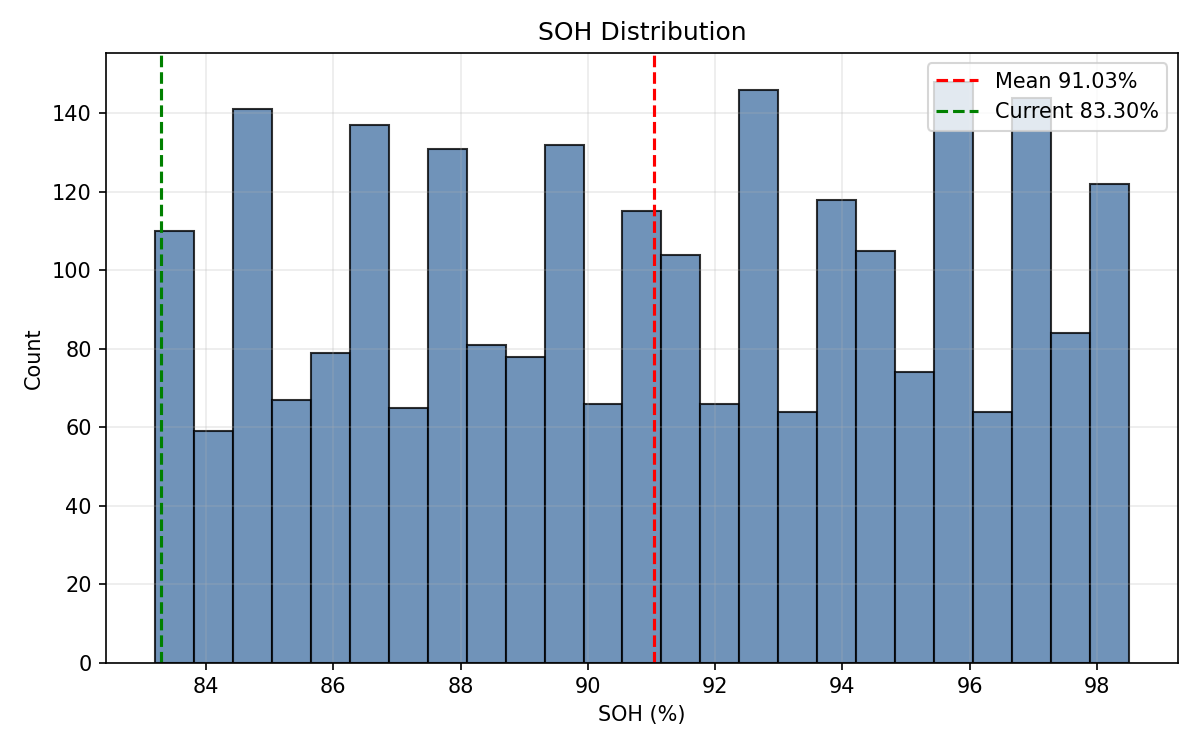
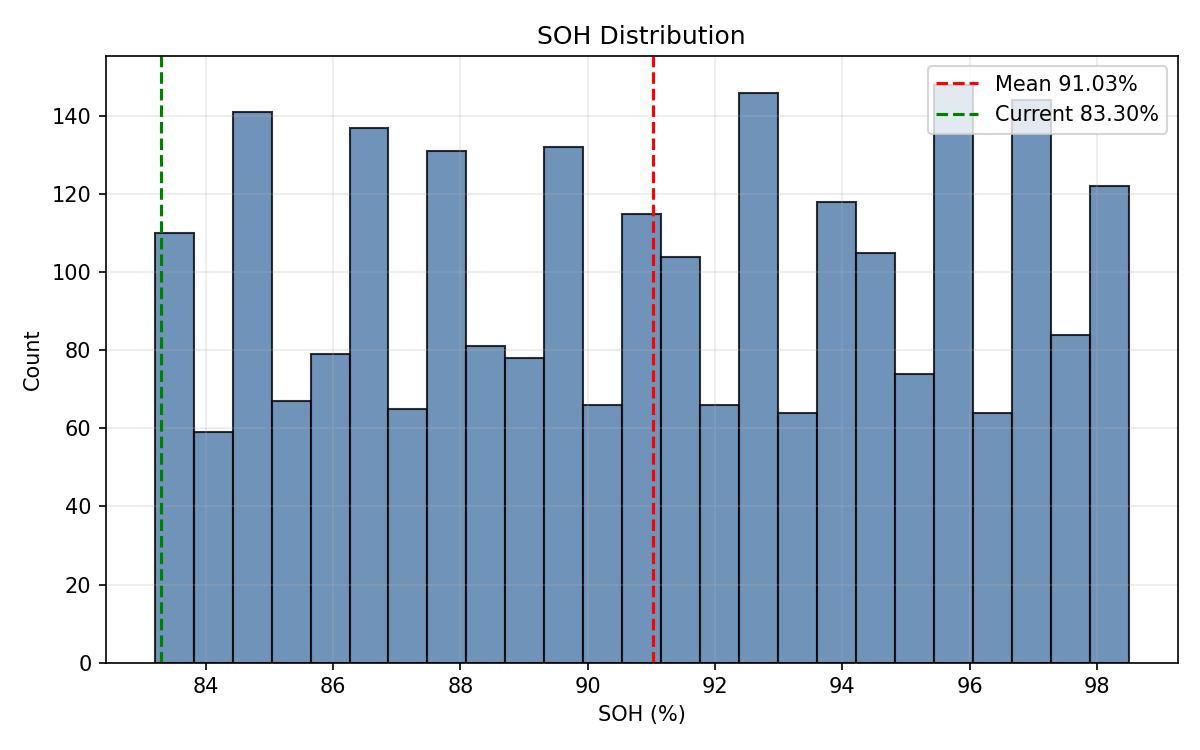
Fixed GUI and console prediction algorithms

diff --git a/battery_bdf_analyzer_console.py b/battery_bdf_analyzer_console.py
@@ -83,6 +83,9 @@ def load_bdf(file_path: Path) -> pd.DataFrame:
     df["capacity_percent"] = pd.to_numeric(df["capacity_percent"], errors="coerce")
     df["temperature_celsius"] = pd.to_numeric(df["temperature_celsius"], errors="coerce")
 
+    # Treat non-finite values as missing before filtering rows.
+    df = df.replace([np.inf, -np.inf], np.nan)
+
     df = df.dropna(subset=["test_time_second", "voltage_volt", "current_ampere"]).copy()
     if df.empty:
         raise ValueError("No valid rows after numeric normalization")
@@ -118,11 +121,18 @@ def compute_soh(df: pd.DataFrame) -> np.ndarray:
 def fit_linear(time_sec: np.ndarray, soh: np.ndarray) -> tuple[LinearRegression, dict]:
     """Fit a linear SOH-vs-time model and return model plus quality metrics."""
     model = LinearRegression()
-    x = time_sec.reshape(-1, 1)
-    model.fit(x, soh)
-    pred = model.predict(x)
+    x = pd.to_numeric(pd.Series(time_sec), errors="coerce").replace([np.inf, -np.inf], np.nan)
+    y = pd.to_numeric(pd.Series(soh), errors="coerce").replace([np.inf, -np.inf], np.nan)
+    valid = x.notna() & y.notna()
+    if int(valid.sum()) < 2:
+        raise ValueError("Insufficient finite samples for linear fit")
+
+    x_fit = x[valid].to_numpy().reshape(-1, 1)
+    y_fit = y[valid].to_numpy()
+    model.fit(x_fit, y_fit)
+    pred = model.predict(x_fit)
     metrics = {
-        "r2": float(r2_score(soh, pred)),
+        "r2": float(r2_score(y_fit, pred)),
         "slope": float(model.coef_[0]),
         "intercept": float(model.intercept_),
     }
@@ -146,23 +156,100 @@ def estimate_rul_seconds(linear_model: LinearRegression, current_time: float, cu
 def fit_svr(df: pd.DataFrame, soh: np.ndarray) -> tuple[SVR, StandardScaler, dict, np.ndarray]:
     """Train an SVR model for SOH and return fitted artifacts and metrics."""
     features = df[["test_time_second", "voltage_volt", "current_ampere"]].copy()
+    features["test_time_second"] = pd.to_numeric(features["test_time_second"], errors="coerce")
+    features["voltage_volt"] = pd.to_numeric(features["voltage_volt"], errors="coerce")
+    features["current_ampere"] = pd.to_numeric(features["current_ampere"], errors="coerce")
+
     if "temperature_celsius" in df.columns:
-        features["temperature_celsius"] = df["temperature_celsius"].fillna(25.0)
+        features["temperature_celsius"] = pd.to_numeric(df["temperature_celsius"], errors="coerce")
     else:
         features["temperature_celsius"] = 25.0
+
+    features = features.replace([np.inf, -np.inf], np.nan)
+    features["test_time_second"] = features["test_time_second"].interpolate(limit_direction="both").fillna(0.0)
+    features["voltage_volt"] = features["voltage_volt"].ffill().bfill().fillna(3.7)
+    features["current_ampere"] = features["current_ampere"].ffill().bfill().fillna(0.0)
+    features["temperature_celsius"] = features["temperature_celsius"].ffill().bfill().fillna(25.0)
+
+    y = pd.to_numeric(pd.Series(soh), errors="coerce").replace([np.inf, -np.inf], np.nan)
+    y = y.ffill().bfill().fillna(100.0).to_numpy()
 
     scaler = StandardScaler()
     x_scaled = scaler.fit_transform(features)
 
     model = SVR(kernel="rbf", C=10.0, epsilon=0.01)
-    model.fit(x_scaled, soh)
+    model.fit(x_scaled, y)
     pred = model.predict(x_scaled)
 
     metrics = {
-        "r2": float(r2_score(soh, pred)),
-        "mae": float(mean_absolute_error(soh, pred)),
+        "r2": float(r2_score(y, pred)),
+        "mae": float(mean_absolute_error(y, pred)),
     }
     return model, scaler, metrics, pred
+
+
+def predict_future_svr(
+    df: pd.DataFrame,
+    model: SVR,
+    scaler: StandardScaler,
+    future_days: float,
+) -> tuple[np.ndarray, np.ndarray]:
+    """Project future SOH using last known operating conditions and time progression."""
+    horizon_seconds = max(0.0, future_days * 86400.0)
+
+    features = df[["test_time_second", "voltage_volt", "current_ampere"]].copy()
+    features["test_time_second"] = pd.to_numeric(features["test_time_second"], errors="coerce")
+    features["voltage_volt"] = pd.to_numeric(features["voltage_volt"], errors="coerce")
+    features["current_ampere"] = pd.to_numeric(features["current_ampere"], errors="coerce")
+
+    if "temperature_celsius" in df.columns:
+        features["temperature_celsius"] = pd.to_numeric(df["temperature_celsius"], errors="coerce")
+    else:
+        features["temperature_celsius"] = 25.0
+
+    features = features.replace([np.inf, -np.inf], np.nan)
+    features["test_time_second"] = features["test_time_second"].interpolate(limit_direction="both").fillna(0.0)
+    features["voltage_volt"] = features["voltage_volt"].ffill().bfill().fillna(3.7)
+    features["current_ampere"] = features["current_ampere"].ffill().bfill().fillna(0.0)
+    features["temperature_celsius"] = features["temperature_celsius"].ffill().bfill().fillna(25.0)
+
+    last = features.iloc[-1]
+    last_time = float(last["test_time_second"])
+    future_times = np.linspace(last_time, last_time + horizon_seconds, num=100)
+
+    x_future = pd.DataFrame(
+        {
+            "test_time_second": future_times,
+            "voltage_volt": float(last["voltage_volt"]),
+            "current_ampere": float(last["current_ampere"]),
+            "temperature_celsius": float(last["temperature_celsius"]),
+        }
+    )
+
+    x_future_scaled = scaler.transform(x_future)
+    soh_future = model.predict(x_future_scaled)
+    return future_times, soh_future
+
+
+def estimate_svr_rul_seconds(
+    df: pd.DataFrame,
+    model: SVR,
+    scaler: StandardScaler,
+    eol_soh: float,
+    future_days: float,
+) -> float | None:
+    """Estimate SVR-based RUL by finding first forecast time crossing EOL SOH."""
+    future_times, soh_future = predict_future_svr(df, model, scaler, future_days)
+    if len(future_times) == 0:
+        return None
+
+    current_time = float(df["test_time_second"].iloc[-1])
+    below = np.where(soh_future <= eol_soh)[0]
+    if len(below) == 0:
+        return None
+
+    t_eol = float(future_times[below[0]])
+    return max(0.0, t_eol - current_time)
 
 
 def save_plots(df: pd.DataFrame, soh: np.ndarray, linear_model: LinearRegression, svr_pred: np.ndarray, output_dir: Path, eol_soh: float) -> list[Path]:
@@ -232,7 +319,7 @@ def format_duration(seconds: float) -> str:
     return f"{days:.1f} days"
 
 
-def run_analysis(input_file: Path, output_dir: Path, eol_soh: float) -> None:
+def run_analysis(input_file: Path, output_dir: Path, eol_soh: float, svr_days: float) -> None:
     """Run complete BDF analysis pipeline and print a console report."""
     df = load_bdf(input_file)
     soh = compute_soh(df)
@@ -245,7 +332,8 @@ def run_analysis(input_file: Path, output_dir: Path, eol_soh: float) -> None:
         eol_soh=eol_soh,
     )
 
-    _, _, svr_metrics, svr_pred = fit_svr(df, soh)
+    svr_model, svr_scaler, svr_metrics, svr_pred = fit_svr(df, soh)
+    svr_rul_seconds = estimate_svr_rul_seconds(df, svr_model, svr_scaler, eol_soh=eol_soh, future_days=svr_days)
     saved_plots = save_plots(df, soh, linear_model, svr_pred, output_dir, eol_soh)
 
     print("=" * 60)
@@ -270,6 +358,10 @@ def run_analysis(input_file: Path, output_dir: Path, eol_soh: float) -> None:
     print("SVR model")
     print(f"- R²: {svr_metrics['r2']:.4f}")
     print(f"- MAE: {svr_metrics['mae']:.4f}%")
+    if svr_rul_seconds is None:
+        print(f"- Estimated RUL to SOH {eol_soh:.0f}%: > {svr_days:.1f} days (within forecast horizon)")
+    else:
+        print(f"- Estimated RUL to SOH {eol_soh:.0f}%: {format_duration(svr_rul_seconds)}")
     print()
     print("Saved plots")
     for path in saved_plots:
@@ -283,6 +375,7 @@ def parse_args() -> argparse.Namespace:
     parser.add_argument("input_file", type=Path, help="Path to .csv or .bdf.csv file")
     parser.add_argument("--outdir", type=Path, default=Path("plots_bdf"), help="Directory to save PNG charts")
     parser.add_argument("--eol", type=float, default=70.0, help="End-of-life SOH threshold (default: 70)")
+    parser.add_argument("--svr-days", type=float, default=30.0, help="Future horizon in days for SVR EOL estimate (default: 30)")
     return parser.parse_args()
 
 
@@ -291,10 +384,13 @@ def main() -> int:
     signal.signal(signal.SIGINT, signal.default_int_handler)
     args = parse_args()
     try:
-        run_analysis(args.input_file, args.outdir, args.eol)
+        run_analysis(args.input_file, args.outdir, args.eol, args.svr_days)
     except KeyboardInterrupt:
         print("\nInterrupted by user (Ctrl+C).")
         return 130
+    except ValueError as exc:
+        print(f"ERROR: {exc}", file=sys.stderr)
+        return 2
     except BrokenPipeError:
         return 0
     return 0

diff --git a/battery_bdf_analyzer.py b/battery_bdf_analyzer.py
@@ -217,10 +217,14 @@ class BatteryBDFAnalyzer:
         if self.svr_model is None or self.data.empty:
             return None, None
 
-        last_time = float(self.data["test_time_second"].iloc[-1])
+        features = self._get_svr_features()
+        if features.empty:
+            return None, None
+
+        last_time = float(features["test_time_second"].iloc[-1])
         future_times = np.linspace(last_time, last_time + future_seconds, num=100)
 
-        last_row = self.data.iloc[-1]
+        last_row = features.iloc[-1]
         x_future = pd.DataFrame(
             {
                 "test_time_second": future_times,
@@ -457,10 +461,23 @@ class BatteryBDFAnalyzer:
     def _get_svr_features(self) -> pd.DataFrame:
         """Build feature matrix for SVR from current data."""
         features = self.data[["test_time_second", "voltage_volt", "current_ampere"]].copy()
+
+        # Ensure numeric and finite values for all model features.
+        features["test_time_second"] = pd.to_numeric(features["test_time_second"], errors="coerce")
+        features["test_time_second"] = features["test_time_second"].interpolate(limit_direction="both").fillna(0.0)
+
+        features["voltage_volt"] = pd.to_numeric(features["voltage_volt"], errors="coerce")
+        features["voltage_volt"] = features["voltage_volt"].ffill().bfill().fillna(3.7)
+
+        features["current_ampere"] = pd.to_numeric(features["current_ampere"], errors="coerce")
+        features["current_ampere"] = features["current_ampere"].ffill().bfill().fillna(0.0)
+
         if "temperature_celsius" in self.data.columns:
             features["temperature_celsius"] = pd.to_numeric(self.data["temperature_celsius"], errors="coerce").fillna(25.0)
         else:
             features["temperature_celsius"] = 25.0
+
+        features["temperature_celsius"] = features["temperature_celsius"].ffill().bfill().fillna(25.0)
         return features
 
     def _open_file(self) -> None:
